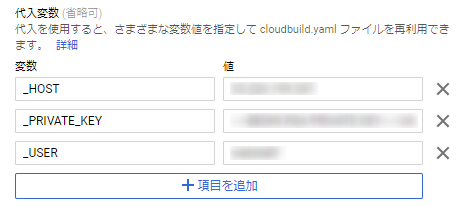
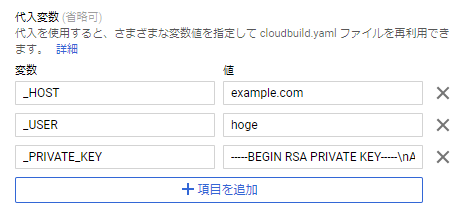
update

diff --git a/README.md b/README.md
@@ -19,7 +19,7 @@ steps:
 
 Add variables on trigger edit page in cloud build.
 
-![readme-img1.png](./readme-img1.png)
+![readme-img1.png](https://github.com/t-kuni/ssh-command-dispatcher/blob/master/readme-img1.png)
 
 **Note**: value of `PRIVATE_KEY` is need to replace LF to `\n` because variables of cloud build is can't include LF.   
 
